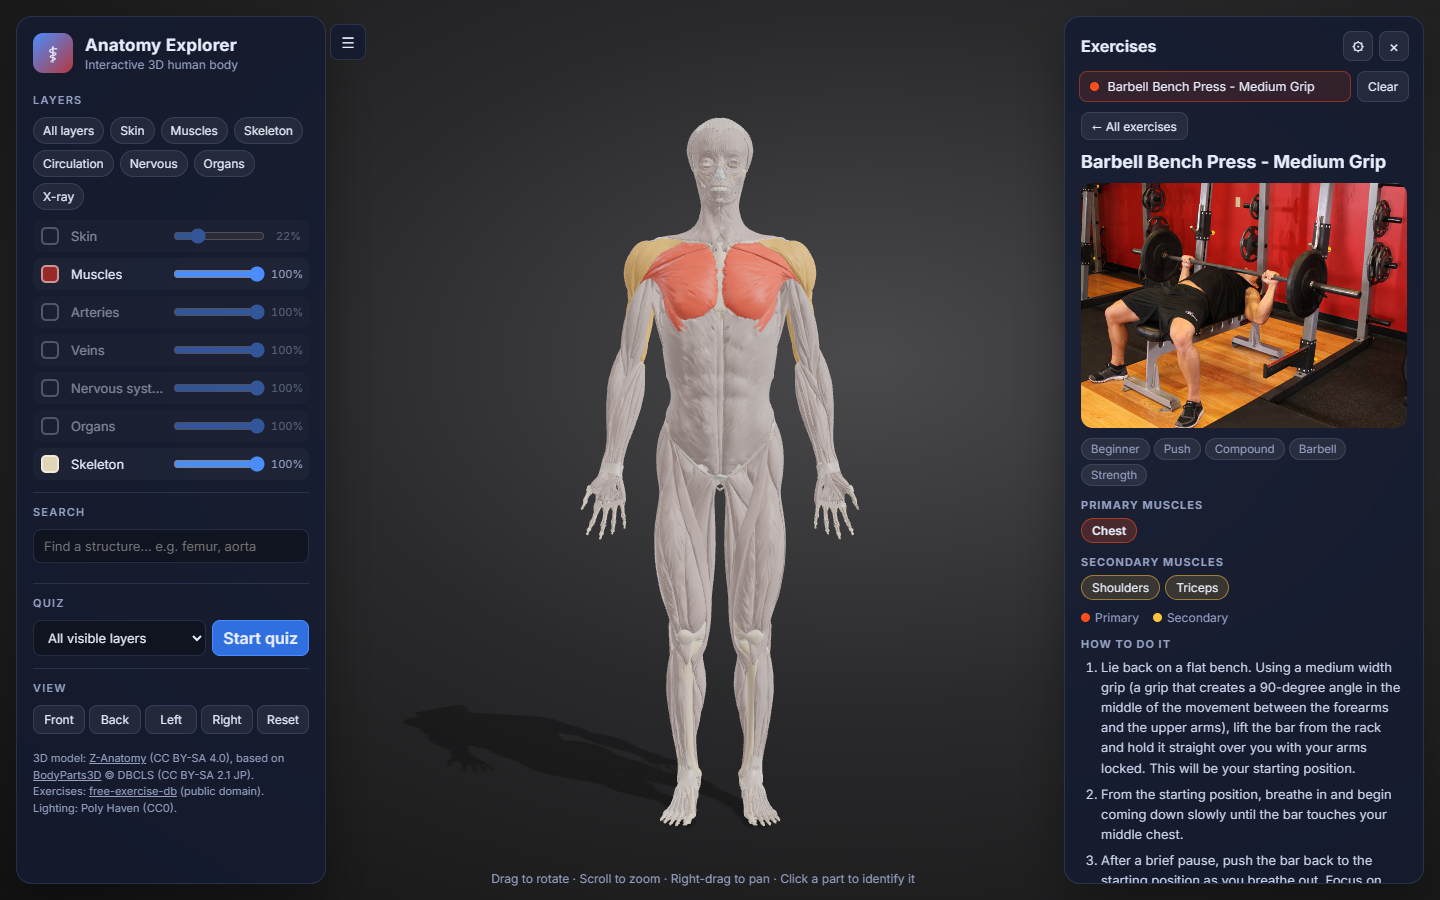
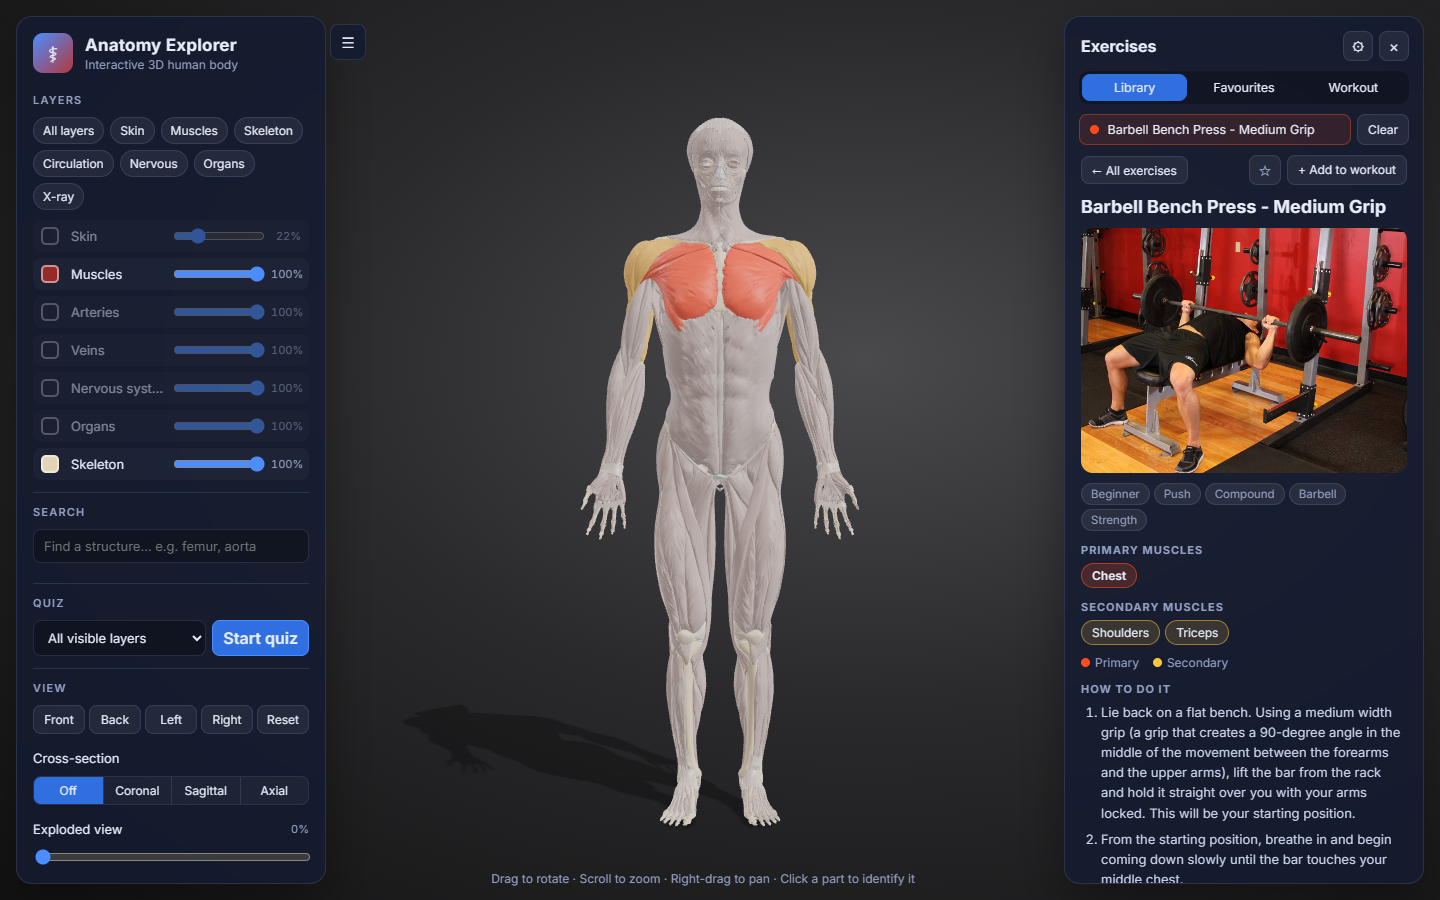
README: document workouts, muscle facts, exercise quiz, cross-sections, explode, share links
New and refreshed screenshots; credits note for the muscle facts; netlify.toml for deployment.

Changed region(s): [[0.75, 0.0622, 1.0, 0.9956], [0.0, 0.84, 0.2188, 0.9644]]

diff --git a/README.md b/README.md
@@ -2,8 +2,9 @@
 
 An interactive 3D human anatomy viewer that runs in the browser. It is built on a realistic, scan-derived
 model of the human body: 2,500+ named structures across skin, muscles, arteries, veins, nerves, organs and
-the skeleton. You can peel back layers, search for any structure, read about it, and quiz yourself. A
-library of 870+ gym exercises shows exactly which muscles each movement works.
+the skeleton. You can peel back layers, slice the body open, pull it apart, search for any structure, read
+about it, and quiz yourself. A library of 870+ gym exercises shows exactly which muscles each movement works,
+and a workout builder shows which muscles a whole session trains and which it misses.
 
 ![All layers](docs/screenshots/all-layers.png)
 
@@ -19,13 +20,20 @@ library of 870+ gym exercises shows exactly which muscles each movement works.
 - **2,500+ named parts.** Hover to see a name, and click to select a part. Left and right sides are told apart
   (for example *Left short head of biceps brachii*).
 - **Info panel.** Shows each part's body system and a short description, with **Focus** (fly the camera to it)
-  and **Isolate** (hide everything else).
+  and **Isolate** (hide everything else). For about 80 main muscles it also lists the **action**, plus
+  **origin, insertion and nerve** on demand, and links to the exercises that train that muscle.
 - **Search.** Instant search across all structures, with keyboard navigation.
 - **Exercise library.** 876 exercises with photos, equipment and step-by-step instructions. Search by tag
   ("dumbbell chest", "bar squat") or filter by body part and equipment. Selecting one highlights its primary
-  and secondary muscles on the body.
-- **Quiz mode.** "Find the ___" questions over all visible layers or a single layer, with hints, skips, score
-  and streaks.
+  and secondary muscles on the body. Star favourites, and see recently opened exercises.
+- **Workout builder.** Save workouts with sets per exercise. A heatmap colours every muscle group by how much
+  the workout trains it and lists the groups it misses.
+- **Cross-sections.** Cut the body along the coronal, sagittal or axial plane and slide the cut through it.
+- **Exploded view.** A slider pulls every part away from the body's centre, with outer layers moving furthest.
+- **Quiz mode.** "Find the ___" questions over all visible layers or a single layer, or "Which muscle does
+  this exercise mainly work?", with hints, skips, score and streaks.
+- **Shareable links.** The address bar always describes the current view (camera, layers, selection, slice,
+  explode, exercise or workout), so copying the link reopens exactly what you see.
 - **Studio rendering.** Physically based tissue materials (wet muscle, glossy cartilage, matte bone), lighting
   from a photographic HDR environment, and soft contact shadows.
 
@@ -56,6 +64,20 @@ library of 870+ gym exercises shows exactly which muscles each movement works.
 | ![Hover tooltip](docs/screenshots/hover.png) | ![Search and info panel](docs/screenshots/search-info.png) |
 | **Isolate a structure** | **Quiz with hint** |
 | ![Isolate](docs/screenshots/isolate.png) | ![Quiz](docs/screenshots/quiz.png) |
+| **Muscle facts: action, origin, insertion, nerve** | **Exercise quiz: "Which muscle does this work?"** |
+| ![Muscle info card](docs/screenshots/muscle-info.png) | ![Exercise quiz](docs/screenshots/exercise-quiz.png) |
+
+### Cross-sections and exploded view
+
+Use **Cross-section** in the sidebar's View section to cut the body, then drag the slider to move the cut and
+**⇄ Flip** to keep the other half. The camera turns to face the cut, and cut tissue is drawn solid.
+**Exploded view** pulls the parts apart; picking, focus and the quiz all follow the moved parts.
+
+| Sagittal (left / right) | Axial (top / bottom) |
+| :---: | :---: |
+| ![Sagittal section](docs/screenshots/slice-sagittal.png) | ![Axial section](docs/screenshots/slice-axial.png) |
+| **Coronal (front / back), muscles and skeleton** | **Exploded view** |
+| ![Coronal section](docs/screenshots/slice-coronal.png) | ![Exploded view](docs/screenshots/exploded.png) |
 
 ## Exercise library
 
@@ -78,6 +100,21 @@ Open the **🏋 Exercises** panel on the right (it starts open on wide screens).
     the covering muscles are hidden while it is selected.
 - **⚙ Settings:** hide the photos, animation, tags, muscle list, instructions or list thumbnails to keep the
   panel uncluttered. Your choices are saved in the browser.
+- **From the body to exercises:** click a muscle, then **Exercises for biceps →** in the info card. The library
+  is filtered to that muscle group, with exercises that mainly target it listed first.
+- **Favourites and recents:** star exercises with ☆ to keep them in the **Favourites** tab. The last 12
+  exercises you opened appear at the top of the library.
+
+### Workouts
+
+Add exercises with **+** (in the list or the detail view), then open the **Workout** tab.
+
+- Change the number of sets, drag rows to reorder them, and keep several named workouts (new, duplicate,
+  delete). Workouts are saved in the browser.
+- **🔥 Show heatmap on the body** colours each muscle group from yellow (light) to deep red (heavy). Groups the
+  workout doesn't train turn blue. A primary muscle counts each set fully, a secondary muscle counts half.
+- Below the list, every trained group is ranked by sets. Click **Not trained** groups to find exercises for
+  them.
 
 Exercise data and photos come from [free-exercise-db](https://github.com/yuhonas/free-exercise-db) (public
 domain). The exercise list ships with the app, and the photos load from GitHub when you view them.
@@ -87,8 +124,10 @@ domain). The exercise list ships with the app, and the photos load from GitHub w
 | ![Exercise list](docs/screenshots/exercises-list.png) | ![Search "dumbbell chest"](docs/screenshots/exercises-search.png) |
 | **Bench press: chest primary, shoulders and triceps secondary** | **Deadlift: covering muscles hidden to show the erector spinae** |
 | ![Bench press](docs/screenshots/exercise-bench-press.png) | ![Deadlift](docs/screenshots/exercise-deadlift.png) |
-| **Customisable detail view** | |
-| ![Exercise settings](docs/screenshots/exercise-settings.png) | |
+| **Customisable detail view** | **Click a muscle to find exercises for it** |
+| ![Exercise settings](docs/screenshots/exercise-settings.png) | ![Muscle to exercises](docs/screenshots/muscle-to-exercises.png) |
+| **Workout heatmap (front)** | **Workout heatmap (back)** |
+| ![Workout heatmap](docs/screenshots/workout-heatmap.png) | ![Workout heatmap, back](docs/screenshots/workout-heatmap-back.png) |
 
 ## Controls
 
@@ -104,6 +143,8 @@ domain). The exercise list ships with the app, and the photos load from GitHub w
 | Show only one layer | Double-click the layer name |
 | Camera presets | **Front**, **Back**, **Left**, **Right**, **Reset** |
 | Exercise library | **🏋 Exercises** button (top right) |
+| Cross-section / explode | **Cross-section** buttons and **Exploded view** slider under View |
+| Share the current view | **🔗 Copy link to this view**, or copy the address bar |
 
 ## Getting started
 
@@ -129,22 +170,25 @@ Then open the URL that Vite prints (usually http://localhost:5173).
 ## Project structure
 
 ```
-├── index.html               App shell (sidebar, quiz bar, info panel)
+├── index.html               App shell (sidebar, quiz bar, info panel, exercise panel)
 ├── public/
 │   ├── models/              One compressed GLB per layer (~15 MB total)
 │   ├── data/exercises.json  876 exercises (free-exercise-db)
 │   └── env/                 Studio HDR environment map
 ├── src/
 │   ├── main.js              Entry point: wires UI modules and loads the model
-│   ├── app.js               Central state: layers, selection, isolation, highlights
+│   ├── app.js               Central state: layers, selection, isolation, highlights, slice, explode
 │   ├── scene.js             Renderer, camera, lighting, on-demand render loop
 │   ├── body/
 │   │   ├── loadBody.js      Loads the layer GLBs and packs ~2,500 parts into ~40 BatchedMeshes
-│   │   └── materials.js     Tissue materials (bone, muscle, skin, liver, …)
+│   │   └── materials.js     Tissue materials (bone, muscle, skin, liver, …) and the slice plane
 │   ├── data/
 │   │   ├── structures.js    Curated descriptions and name aliases
-│   │   └── exerciseMuscles.js  Exercise muscle groups → body regions and model parts
-│   └── ui/                  Layers, picking, search, info panel, quiz, exercise panel
+│   │   ├── muscleInfo.js    Origin, insertion, action and nerve of ~80 main muscles
+│   │   ├── exercises.js     Loads the exercise library (shared by the panel, quiz and links)
+│   │   └── exerciseMuscles.js  Exercise muscle groups ↔ body regions and model parts
+│   └── ui/                  Layers, picking, search, info panel, quiz, exercise panel,
+│                            view tools (slice / explode) and share links
 ├── tools/                   Model conversion pipeline (Blender + gltf-transform)
 └── docs/screenshots/        Images used in this README
 ```

diff --git a/CREDITS.md b/CREDITS.md
@@ -10,3 +10,6 @@
   the public domain under the [Unlicense](https://unlicense.org/). `public/data/exercises.json` is a trimmed copy;
   the photos are loaded from that repository.
 - **Studio lighting**: `public/env/studio_small_09_1k.hdr` from [Poly Haven](https://polyhaven.com/a/studio_small_09), CC0.
+- **Muscle facts** (`src/data/muscleInfo.js`): origin, insertion, action and nerve summaries written for this
+  project from standard anatomy references, in plain language. They are meant for learning; check a
+  textbook before relying on them clinically.
